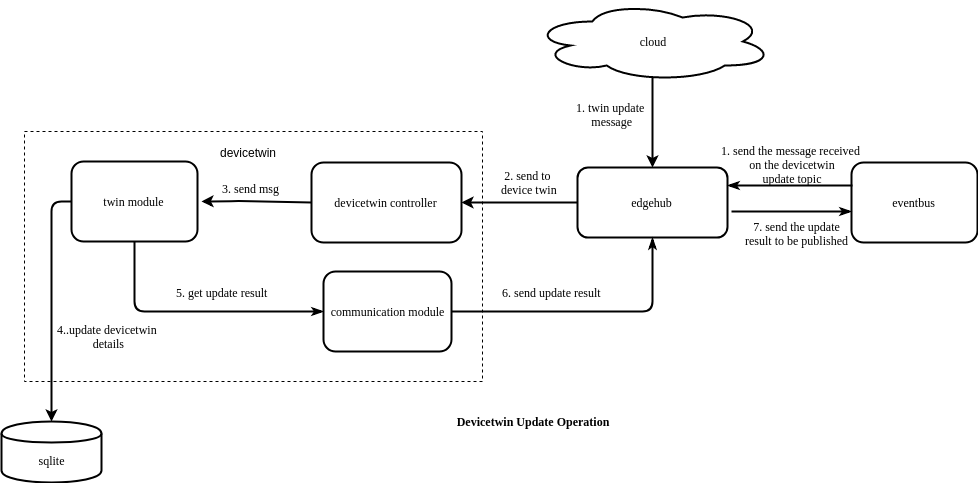
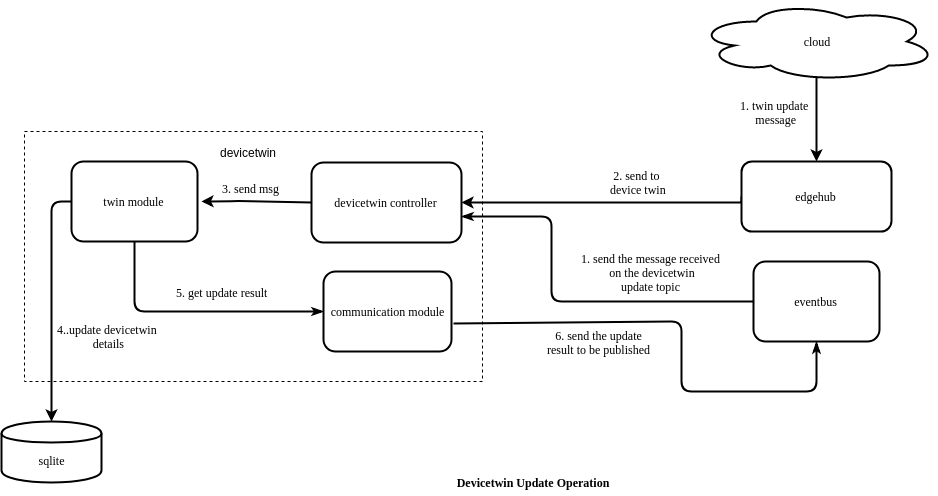
docs: Improved the documentation of devicetwin module

diff --git a/docs/modules/devicetwin.md b/docs/modules/devicetwin.md
@@ -78,16 +78,34 @@ The following are the action callbacks which can be performed by the membership 
    - dealMembershipUpdated
    - dealMembershipDetail
 
-**dealMembershipGet**:   dealMembershipGet() deal gets the membership event, providing information
-                         about the devices associated with the edge node for a particular event id.
+**dealMembershipGet**:   dealMembershipGet() deal gets the information  about the devices associated with the
+                                                                    particular edge node, from the cache. The eventbus first receives a message on its subscribed topic (membership-get topic).
+                                                                    This message arrives at the  devicetwin controller, which further sends the message to membership module.  The membership module
+                                                                     gets the devices associated with the edge node from the cache (context) and sends the information to the communication module, 
+                                                                     it also handles errors that may arise while performing the  aforementioned process and sends the error to the communication module
+                                                                      instead of device details.The communication module sends the information to the  eventbus component which further publishes the result on the 
+                                                                     specified MQTT topic (get membership result topic). 
+
+  <img src="../images/devicetwin/membership-get.png">
+
 
 **dealMembershipUpdated**:  dealMembershipUpdated() updates the membership details of the node. 
                             It adds the devices, that were newly added, to the edge group and removes the devices, that were removed,
-                            from the edge group 
+                            from the edge group and updates device details, if they have been altered or updated. The eventbus module receives the message that arrives on the subscribed topic and forwards the message 
+                            to devicetwin controller which further forwards it to the membership module. The membership  module adds devices that are newly added, removes devices that have been recently 
+                            deleted and also updates the devices that were already existing in the database as well as in the cache. After updating the details of the devices a  message is sent
+                            to the communication module of the device twin, which sends the message to eventbus module to be published on the given MQTT topic. 
+                            
+  <img src="../images/devicetwin/membership-update.png">
                     
+                                        
 **dealMembershipDetail**:   dealMembershipDetail() provides the membership details of the edge node, providing information
                             about the devices associated with the edge node, after removing the membership details of 
-                            recently removed devices.
+                            recently removed devices. The eventbus module receives the message that arrives on the subscribed topic,the message is then forwarded  to the 
+                            devicetwin controller which further forwards it to the membership module. The membership  module adds devices that are mentioned in the message, removes 
+                            devices that that are not present in the cache. After updating the details of the devices a  message is sent to the communication module of the device twin.
+
+  <img src="../images/devicetwin/membership-detail.png">
 
 
 ### Twin Module
@@ -118,12 +136,10 @@ The following are the action callbacks which can be performed by the twin module
   <img src="../images/devicetwin/devicetwin-update.png">
                  
                  
-**dealTwinGet**: dealTwinGet() provides the device twin  information for a particular device. The edgehub component  receives the message that arrives on the subscribed twin get topic through the 
-                                               eventbus component. The edgehub component forwards the message to devicetwin controller, 
-                                               which further sends the message to twin module. The twin module gets the devicetwin related information for the particular device and 
+**dealTwinGet**: dealTwinGet() provides the device twin  information for a particular device. The eventbus component  receives the message that arrives on the subscribed twin get topic. 
+                                              and forwards the message to devicetwin controller, which further sends the message to twin module. The twin module gets the devicetwin related information for the particular device and 
                                                sends it to the communication module, it also handles errors that arise when the device is not found or if any internal problem occurs.
-                                                The communication module sends the information to the edgehub component which further sends it to the eventbus component.
-                                                The eventbus component publishes the result on the topic specified . 
+                                                The communication module sends the information to the eventbus component, which publishes the result on the topic specified . 
                                                 
   <img src="../images/devicetwin/devicetwin-get.png">
 
@@ -194,16 +210,15 @@ The following are the action callbacks which can be performed by the device modu
    
  **dealDeviceUpdated**: dealDeviceUpdated() deals with the operations to be performed when a device attribute update is encountered.
                         It updates the changes to the device attributes, like addition of attributes, updation of attributes and deletion of attributes,
-                        in the database. It also sends the result of the device attribute update to be  published to the eventhub component]
-                        through the communicate module of devicetwin. The eventhub component further sends the received message to eventbus which
-                        publishes the result on the specified topic.                      
+                        in the database. It also sends the result of the device attribute update to be  published to the eventbus component]
+                        through the communicate module of devicetwin. The eventbus component further publishes the result on the specified topic.                      
  
   <img src="../images/devicetwin/device-update.png">                                             
  
  **dealDeviceStateUpdate**:  dealDeviceStateUpdate() deals with the operations to be performed when a device status update is encountered.
                              It updates the state of the device as well as the last online time of the device in the database.
-                             It also sends the update state result to the cloud as well as the edgehub module (which in turn sends it to the eventbus
-                             module which publishes the result on the specified topic of the MQTT broker), through the communication module   
+                             It also sends the update state result, through the communication module,  to the cloud through the edgehub module and to the  eventbus module which in turn 
+                             publishes the result on the specified topic of the MQTT broker.
 
   <img src="../images/devicetwin/device-state-update.png">                                             
   
@@ -221,16 +236,14 @@ DeviceTwin module creates three tables in the database, namely :-
 
 Device table contains the data regarding the devices added to a particular edge node.
 The following are the columns present in the device table :-
-    
-   - **ID**:  This field indicates the id assigned to the device
-    
-   - **Name**: This field indicates the name of the device
-   
-   - **Description**: This field indicates the description of the device
-   
-   - **State**: This field indicates the state of the device
-   
-   - **LastOnline**: This fields indicates when the device was last online
+        
+|Column Name | Description |
+|----------------|--------------------------|
+|**ID** |  This field indicates the id assigned to the device
+|**Name** | This field indicates the name of the device
+|**Description** | This field indicates the description of the device
+|**State** | This field indicates the state of the device
+|**LastOnline** | This fields indicates when the device was last online
 
 
 **Operations Performed :-**   
@@ -263,21 +276,16 @@ The following are the operations that can be performed on this data :-
 Device attribute table contains the data regarding the device attributes associated with a particular device in the edge node.
 The following are the columns present in the device attribute table :-
     
-   - **ID**:  This field indicates the id assigned to the device attribute
-    
-   - **DeviceID**:  This field indicates the device id of the device associated with this attribute
-    
-   - **Name**: This field indicates the name of the device attribute
-   
-   - **Description**: This field indicates the description of the device attribute
-   
-   - **Value**: This field indicates the value of the device attribute
-   
-   - **Optional**: This fields indicates whether the device attribute is optional or not
-   
-   - **AttrType**: This fields indicates the type of attribute that is referred to
-   
-   - **Metadata**: This fields describes the metadata associated with the device attribute 
+|Column Name | Description |
+|----------------|--------------------------|
+| **ID** |  This field indicates the id assigned to the device attribute
+| **DeviceID** |  This field indicates the device id of the device associated with this attribute
+| **Name** | This field indicates the name of the device attribute
+|**Description** | This field indicates the description of the device attribute
+|**Value** | This field indicates the value of the device attribute
+| **Optional** | This fields indicates whether the device attribute is optional or not
+|**AttrType** | This fields indicates the type of attribute that is referred to
+|**Metadata**|This fields describes the metadata associated with the device attribute 
 
 
 **Operations Performed :-**   
@@ -306,31 +314,21 @@ The following are the operations that can be performed on this data :-
 Device twin table contains the data related to the device device twin associated with a particular device in the edge node.
 The following are the columns present in the device twin table :-
     
-   - **ID**:  This field indicates the id assigned to the device twin
-    
-   - **DeviceID**:  This field indicates the device id of the device associated with this device twin
-    
-   - **Name**: This field indicates the name of the device twin
-   
-   - **Description**: This field indicates the description of the device twin
-   
-   - **Expected**: This field indicates the expected value of the device 
-
-   - **Actual**: This field indicates the actual value of the device 
-
-   - **ExpectedMeta**: This field indicates the metadata associated with the expected value of the device 
-
-   - **ActualMeta**: This field indicates the metadata associated with the actual value of the device 
-
-   - **ExpectedVersion**: This field indicates the version of the expected value of the device
-
-   - **ActualVersion**: This field indicates the version of the actual value of the device 
-   
-   - **Optional**: This fields indicates whether the device twin is optional or not
-   
-   - **AttrType**: This fields indicates the type of attribute that is referred to
-   
-   - **Metadata**: This fields describes the metadata associated with the device twin
+|Column Name | Description |
+|----------------|--------------------------|
+   | **ID** | This field indicates the id assigned to the device twin
+   | **DeviceID** |  This field indicates the device id of the device associated with this device twin
+   |**Name**| This field indicates the name of the device twin
+   |**Description**| This field indicates the description of the device twin
+   |**Expected**| This field indicates the expected value of the device 
+   |**Actual**| This field indicates the actual value of the device 
+   | **ExpectedMeta**| This field indicates the metadata associated with the expected value of the device 
+   |**ActualMeta**| This field indicates the metadata associated with the actual value of the device 
+   | **ExpectedVersion**| This field indicates the version of the expected value of the device
+   |**ActualVersion**| This field indicates the version of the actual value of the device 
+   |**Optional**| This fields indicates whether the device twin is optional or not
+   |**AttrType**| This fields indicates the type of attribute that is referred to
+   | **Metadata**| This fields describes the metadata associated with the device twin
 
 
 **Operations Performed :-**   
